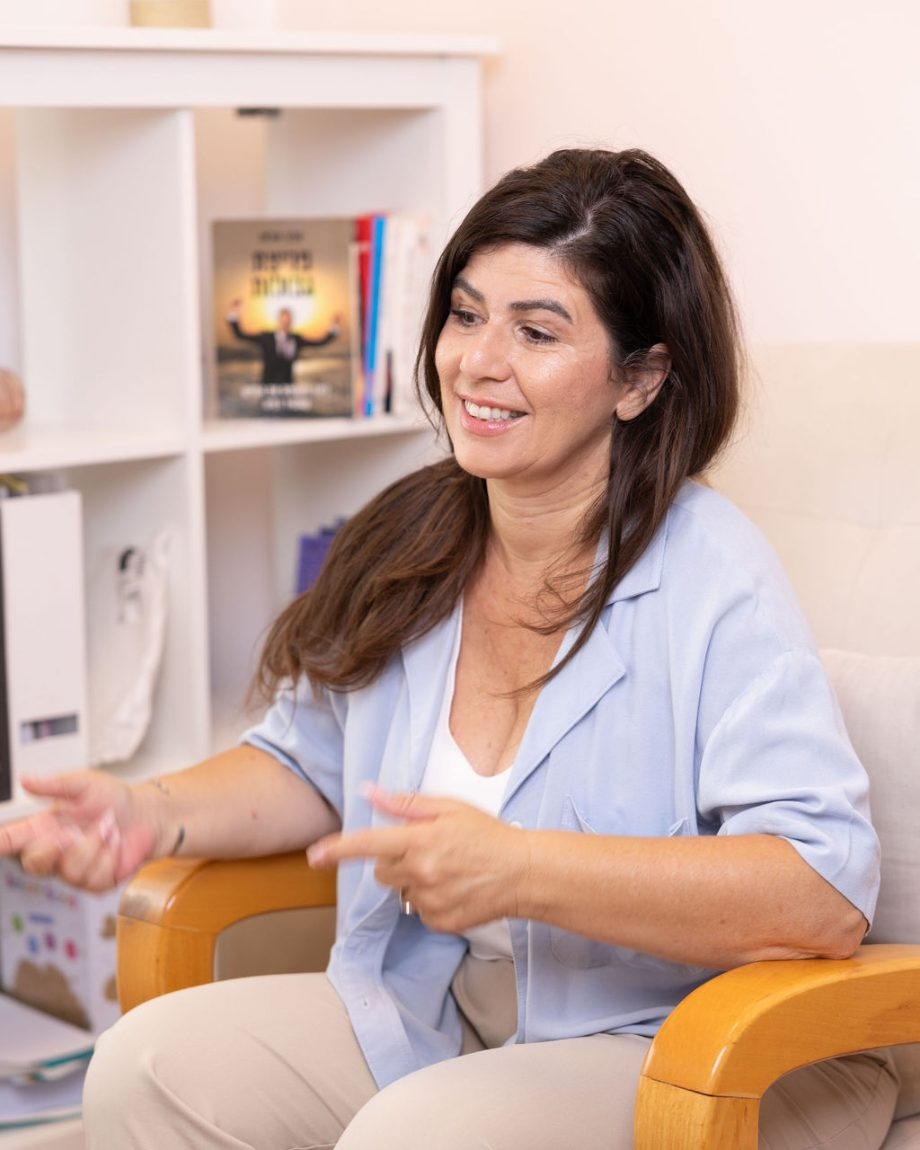
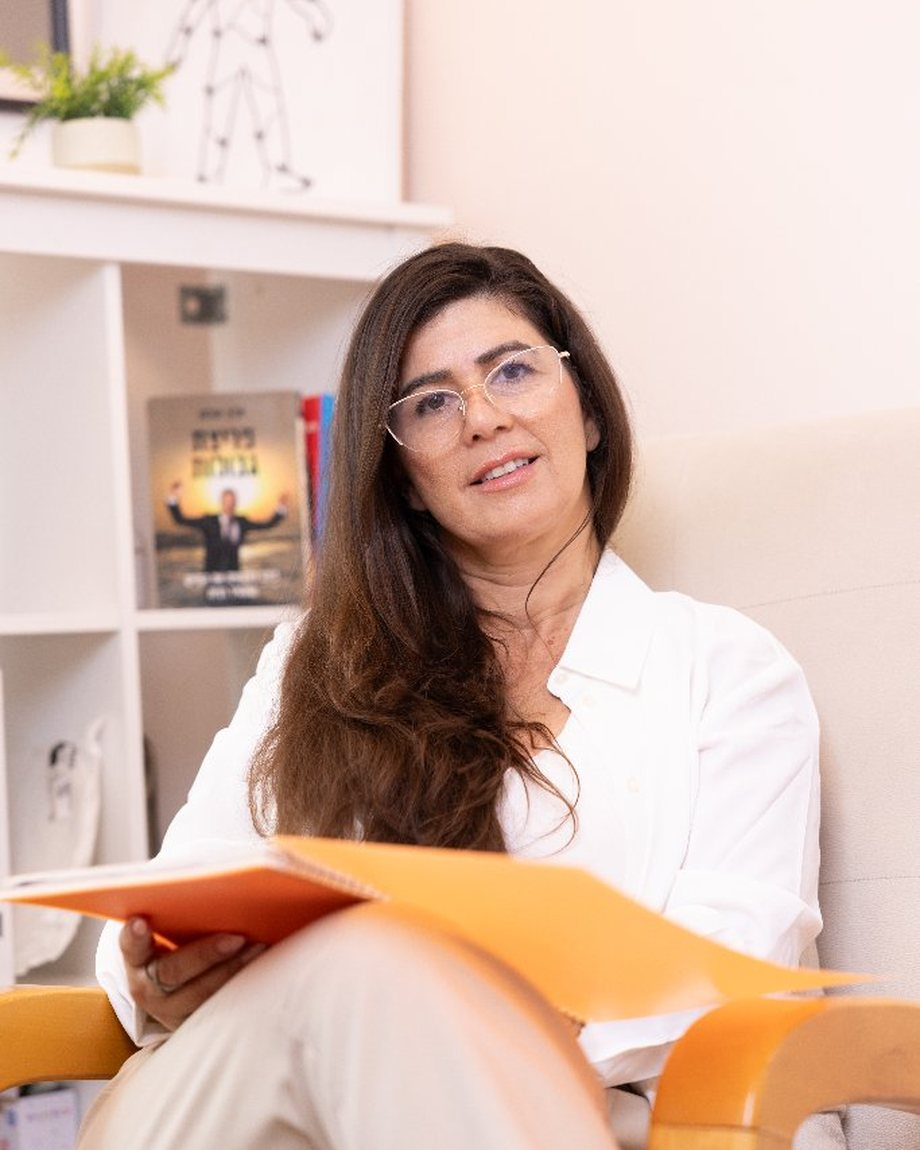
תמונות מקצועיות אמיתיות של קטי + תמונה חדשה בסקשן המערכת הדיגיטלית
- הוחלפו תמונות ה-hero (kety-640/920 .jpg+.webp) ותמונת 'על המייסדת' (kety-about.jpg) בצילומים מקצועיים אמיתיים שקטי שלחה, בגזירת 4:5 תואמת למידות הקיימות
- נוספה תמונה שלישית (kety-digital.jpg) לסקשן 'המערכת הדיגיטלית' — פורטרט קטי משתמשת באפליקציה, בטור נפרד מול הכרטיסים (רק בדסקטופ, lg:flex) עם מסגרת וצל תואמים ל-hero
- CSS ב-patch.css (.digital-figure); bump v=20260915d

diff --git a/app.js b/app.js
@@ -708,11 +708,25 @@ function DigitalPlatform() {
   return (
     <section id="digital" className="py-20 sm:py-28 bg-[#FAF8F4]">
       <div className="max-w-[1080px] mx-auto px-5 sm:px-7">
-        <Reveal className="max-w-[680px] mb-14">
-          <Eyebrow>המערכת הדיגיטלית</Eyebrow>
-          <h2 className="font-heading font-extrabold text-ink-800 text-[30px] sm:text-[40px]">קטי בכיס שלך — כל יום, בקצב שלך</h2>
-          <p className="text-ink-500 text-[17px] mt-2">אימון מנטלי דיגיטלי בשיטת CureMindset: שיחה, כלים ותרגול יומי. מלווה לתרגול — לא תחליף לטיפול.</p>
-        </Reveal>
+        <div className="grid grid-cols-1 lg:grid-cols-[1.15fr_.85fr] gap-10 lg:gap-14 items-center mb-14">
+          <Reveal className="max-w-[680px]">
+            <Eyebrow>המערכת הדיגיטלית</Eyebrow>
+            <h2 className="font-heading font-extrabold text-ink-800 text-[30px] sm:text-[40px]">קטי בכיס שלך — כל יום, בקצב שלך</h2>
+            <p className="text-ink-500 text-[17px] mt-2">אימון מנטלי דיגיטלי בשיטת CureMindset: שיחה, כלים ותרגול יומי. מלווה לתרגול — לא תחליף לטיפול.</p>
+          </Reveal>
+          <Reveal className="hidden lg:flex justify-end">
+            <div className="digital-figure">
+              <img
+                src="images/kety-digital.jpg"
+                alt="קטי שגב משתמשת באפליקציית CureMindset הדיגיטלית"
+                width={800}
+                height={1000}
+                loading="lazy"
+                decoding="async"
+              />
+            </div>
+          </Reveal>
+        </div>
 
         <div className="grid grid-cols-1 sm:grid-cols-3 gap-6">
           {cards.map((c, i) => (

diff --git a/index.html b/index.html
@@ -62,10 +62,10 @@
 <link href="https://fonts.googleapis.com/css2?family=Rubik:wght@400;500;600;700;800&family=Assistant:wght@400;500;600;700&display=swap" rel="stylesheet" />
 <link rel="icon" href="images/logo.svg" type="image/svg+xml" />
 <link rel="apple-touch-icon" href="images/logo.svg" />
-<link rel="stylesheet" href="styles.css?v=20260915c" />
-<link rel="stylesheet" href="workshops.css?v=20260915c" />
-<link rel="stylesheet" href="auth.css?v=20260915c" />
-<link rel="stylesheet" href="patch.css?v=20260915c" />
+<link rel="stylesheet" href="styles.css?v=20260915d" />
+<link rel="stylesheet" href="workshops.css?v=20260915d" />
+<link rel="stylesheet" href="auth.css?v=20260915d" />
+<link rel="stylesheet" href="patch.css?v=20260915d" />
 
 <!-- FAQ למנועי חיפוש ולעוזרי AI (Gemini/GPT) -->
 <script type="application/ld+json">
@@ -146,11 +146,11 @@
 <script defer src="vendor/react.production.min.js"></script>
 <script defer src="vendor/react-dom.production.min.js"></script>
 <script defer src="vendor/babel.min.js"></script>
-<script defer src="icons.js?v=20260915c"></script>
-<script type="text/babel" src="app.js?v=20260915c"></script>
-<script type="text/babel" src="workshops.js?v=20260915c"></script>
-<script type="text/babel" src="resilienceDashboard.js?v=20260915c"></script>
-<script type="text/babel" src="memberArea.js?v=20260915c"></script>
-<script type="text/babel" src="main.js?v=20260915c"></script>
+<script defer src="icons.js?v=20260915d"></script>
+<script type="text/babel" src="app.js?v=20260915d"></script>
+<script type="text/babel" src="workshops.js?v=20260915d"></script>
+<script type="text/babel" src="resilienceDashboard.js?v=20260915d"></script>
+<script type="text/babel" src="memberArea.js?v=20260915d"></script>
+<script type="text/babel" src="main.js?v=20260915d"></script>
 </body>
 </html>

diff --git a/patch.css b/patch.css
@@ -118,3 +118,22 @@
   font-weight:700;font-size:12.5px;
 }
 @media (prefers-reduced-motion:reduce){.ws-card:hover{transform:none}}
+
+/* ── תמונת "המערכת הדיגיטלית" — פורטרט קטי משתמשת באפליקציה ── */
+.digital-figure{
+  position:relative;
+  width:100%;
+  max-width:300px;
+  background:#fff;
+  padding:8px;
+  border-radius:1.5rem;
+  box-shadow:0 24px 56px -22px rgba(52,42,22,.32);
+  border:1px solid rgba(201,169,110,.18);
+}
+.digital-figure img{
+  display:block;
+  width:100%;
+  aspect-ratio:4/5;
+  object-fit:cover;
+  border-radius:1.15rem;
+}
